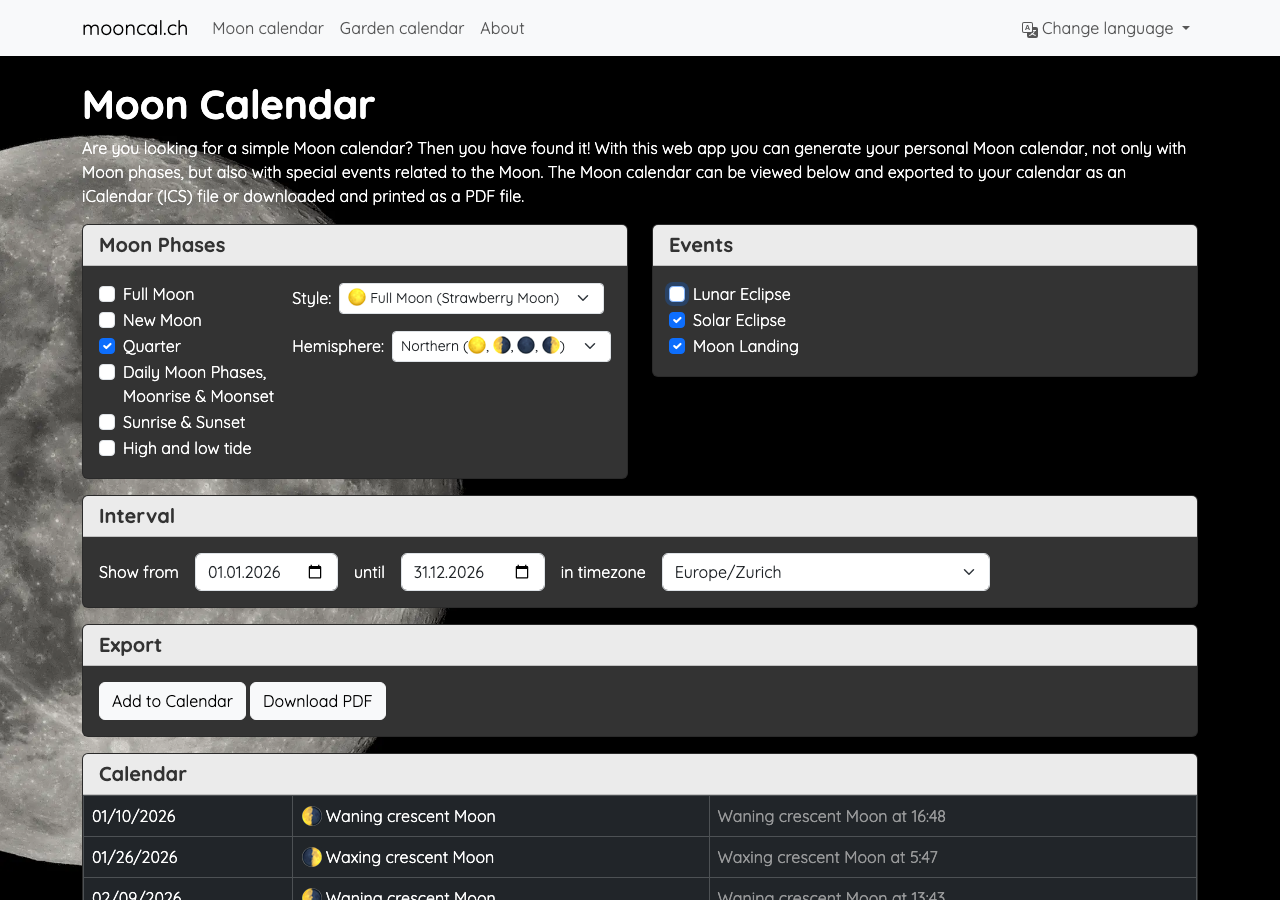
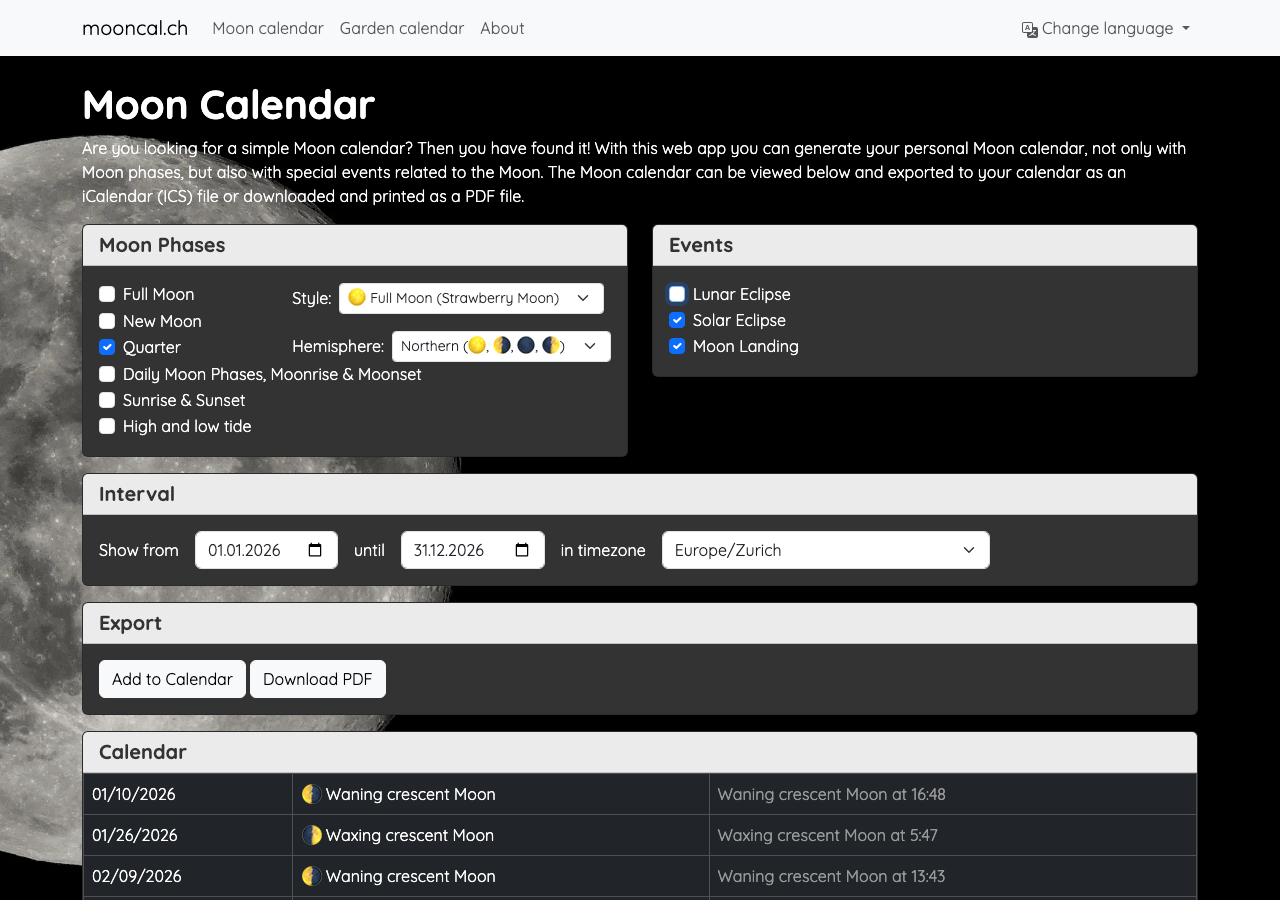
Show the phases below style and hemisphere over the whole width

Changed region(s): [[0.0625, 0.3422, 0.9375, 1.0]]

diff --git a/ui/src/app/main/main.component.html b/ui/src/app/main/main.component.html
@@ -7,18 +7,25 @@
   <div class="col-lg-6">
     <div class="card" id="phases">
       <h5 class="card-header">{{ messages.phases.title }}</h5>
-      <div class="card-body row g-0">
-        <!-- takes the remaining width, so long labels wrap instead of pushing style and hemisphere below -->
-        <div class="col me-3">
-          @for (phase of ['full', 'new', 'quarter', 'daily', 'sun', 'tide']; track phase) {
-            <div class="form-check">
-              <input class="form-check-input" type="checkbox" [ngModel]="phases[phase]" (ngModelChange)="phaseChanged(phase, $event)"
-                     [id]="phase+'-checkbox'" [name]="phase+'-checkbox'">
-              <label class="form-check-label" [for]="phase+'-checkbox'">{{ messages.phases[phase] }}</label>
-            </div>
-          }
-        </div>
-        <div class="col-auto">
+      <div class="card-body phases-grid">
+        @for (phase of ['full', 'new', 'quarter', 'daily', 'sun', 'tide']; track phase) {
+          <div class="form-check" [class.next-to-style]="$index < 3">
+            <input class="form-check-input" type="checkbox" [ngModel]="phases[phase]" (ngModelChange)="phaseChanged(phase, $event)"
+                   [id]="phase+'-checkbox'" [name]="phase+'-checkbox'">
+            <label class="form-check-label" [for]="phase+'-checkbox'">{{ messages.phases[phase] }}</label>
+          </div>
+        }
+        <!-- over the whole width, near its checkbox -->
+        @if (tideStationHint) {
+          <small class="d-block text-body-secondary" id="tide-station-hint">{{ tideStationHintText }}
+            @for (station of tideStationHint.nearest; track station.id; let last = $last) {
+              <button type="button" class="btn btn-link btn-sm p-0 align-baseline tide-station" [class.fw-bold]="station.id === tideStation"
+                      [attr.aria-pressed]="station.id === tideStation" (click)="tideStationSelected(station)">@if (station.id === tideStation) {✓ }{{ station.label }} ({{ station.km }} km)</button>@if (!last) {, }
+            }
+          </small>
+        }
+        <!-- on phones below the checkboxes, otherwise next to the first ones -->
+        <div class="mt-2 mt-sm-0" id="style-and-hemisphere">
           <div class="row g-0 align-items-center">
             <div class="col-auto">
               <label for="style" class="col-form-label-in-sm me-2">{{ messages.styles.title }}:</label>
@@ -47,17 +54,8 @@
             </div>
           </div>
         </div>
-        <!-- over the whole width, near its checkbox -->
-        @if (tideStationHint) {
-          <small class="col-12 text-body-secondary" id="tide-station-hint">{{ tideStationHintText }}
-            @for (station of tideStationHint.nearest; track station.id; let last = $last) {
-              <button type="button" class="btn btn-link btn-sm p-0 align-baseline tide-station" [class.fw-bold]="station.id === tideStation"
-                      [attr.aria-pressed]="station.id === tideStation" (click)="tideStationSelected(station)">@if (station.id === tideStation) {✓ }{{ station.label }} ({{ station.km }} km)</button>@if (!last) {, }
-            }
-          </small>
-        }
         @if (usesLocation) {
-          <div class="col-12 mt-3" id="location">
+          <div class="mt-3" id="location">
             <div class="row g-2 align-items-center">
               <div class="col-auto">
                 <label for="lat" class="col-form-label-in-sm">{{ messages.phases.location.title }}:</label>

diff --git a/ui/src/app/main/main.component.spec.ts b/ui/src/app/main/main.component.spec.ts
@@ -318,10 +318,10 @@ describe('MainComponent', () => {
     expect(hint.textContent).toContain('50 km');
     expect(hint.textContent).toContain('Genova (334 km)');
     expect(hint.querySelectorAll('.tide-station').length).toBe(3);
-    // over the whole width of the card, above the location
+    // over the whole width of the card, right below its checkbox and above the location
     expect(hint.parentElement).toBe(fixture.nativeElement.querySelector('#phases .card-body'));
-    expect(hint.classList).toContain('col-12');
-    expect(hint.nextElementSibling.id).toBe('location');
+    expect(hint.previousElementSibling.querySelector('#tide-checkbox')).not.toBeNull();
+    expect(hint.compareDocumentPosition(fixture.nativeElement.querySelector('#location')) & Node.DOCUMENT_POSITION_FOLLOWING).toBeTruthy();
   });
 
   it('shows stations of the same name', async () => {

diff --git a/ui/src/app/main/main.component.css b/ui/src/app/main/main.component.css
@@ -11,3 +11,22 @@ button.btn-close {
 .location-input {
   width: 6.5em;
 }
+/* style and hemisphere next to the first checkboxes; the others, the tide hint and the location over the whole width */
+@media (min-width: 576px) {
+  .phases-grid {
+    display: grid;
+    grid-template-columns: minmax(0, 1fr) max-content;
+    column-gap: 1rem;
+    align-content: start;
+  }
+  .phases-grid > * {
+    grid-column: 1 / -1;
+  }
+  .phases-grid > .next-to-style {
+    grid-column: 1;
+  }
+  #style-and-hemisphere {
+    grid-column: 2;
+    grid-row: 1 / span 3;
+  }
+}
